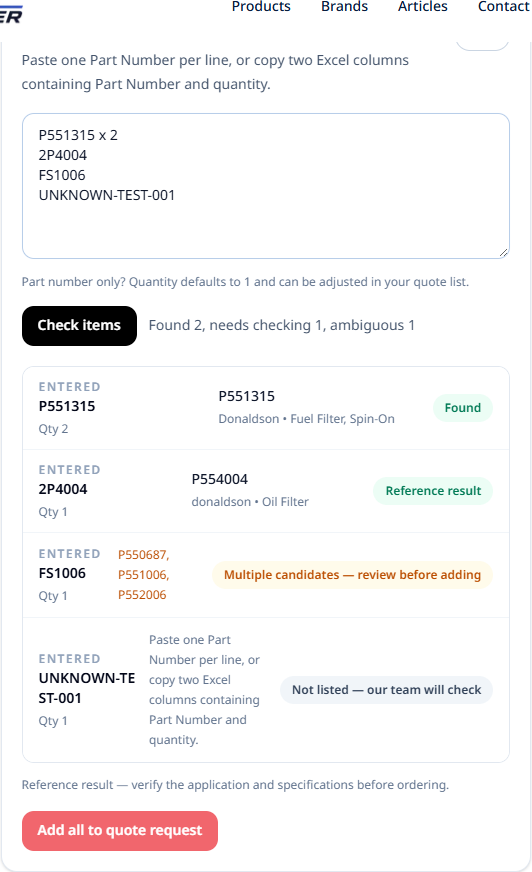
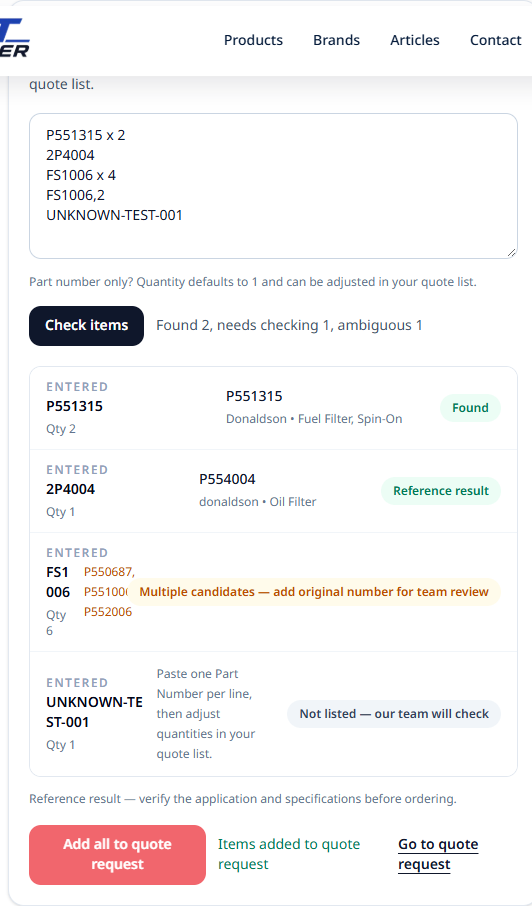
Keep ambiguous RFQ numbers for review and simplify examples

diff --git a/hooks/useMultiPartSearch.ts b/hooks/useMultiPartSearch.ts
@@ -78,7 +78,7 @@ export function useMultiPartSearch({ locale, initiallyExpanded = false, parseInp
   const ambiguousCount = results.filter(
     (result) => result.status === "ambiguous",
   ).length;
-  const canAddResults = !loading && !added && results.length > 0 && ambiguousCount === 0;
+  const canAddResults = !loading && !added && results.length > 0;
 
   const text = isThai
     ? {
@@ -86,9 +86,9 @@ export function useMultiPartSearch({ locale, initiallyExpanded = false, parseInp
         trigger: "ค้นหาหลายรายการ",
         title: "ค้นหาหลายรายการ",
         description:
-          "วาง Part Number ทีละบรรทัด หรือคัดลอก 2 คอลัมน์ Part Number และจำนวนจาก Excel",
+          "วาง Part Number บรรทัดละเบอร์ แล้วปรับจำนวนในรายการขอราคาได้",
         placeholder:
-          "ตัวอย่าง:\nP553000\t2\nAF25555\t1\nCR522 x 3\nUNKNOWN-TEST-001",
+          "ตัวอย่าง:\nP553000\nAF25555\nCR522\nUNKNOWN-TEST-001",
         check: "ตรวจสอบรายการ",
         checking: "กำลังตรวจสอบ...",
         reset: "ล้างรายการ",
@@ -97,13 +97,13 @@ export function useMultiPartSearch({ locale, initiallyExpanded = false, parseInp
         found: "พบสินค้า",
         referenceFound: "พบ Cross Reference",
         missing: "ไม่พบในรายการเว็บไซต์ — ให้ทีมช่วยตรวจสอบ",
-        ambiguous: "พบหลายรายการที่เป็นไปได้ กรุณาตรวจสอบก่อนเพิ่ม",
+        ambiguous: "พบหลายเบอร์เทียบ — จะเพิ่มเบอร์เดิมให้ทีมตรวจสอบ",
         addAll: "เพิ่มทั้งหมดไปยังรายการขอราคา",
         added: "เพิ่มรายการไปยังใบขอราคาแล้ว",
         quoteCta: "ไปที่รายการขอราคา",
         summary: (found: number, missing: number, ambiguous: number) =>
           `พบ ${found} รายการ, ให้ทีมตรวจสอบ ${missing} รายการ${
-            ambiguous ? `, ข้อมูลซ้ำ ${ambiguous} รายการ` : ""
+            ambiguous ? `, หลายเบอร์เทียบ ${ambiguous} รายการ` : ""
           }`,
         failed: "ตรวจสอบรายการไม่สำเร็จ กรุณาลองอีกครั้ง",
         quantity: (qty: number) => `จำนวน ${qty}`,
@@ -115,9 +115,9 @@ export function useMultiPartSearch({ locale, initiallyExpanded = false, parseInp
         trigger: "Search multiple items",
         title: "Search multiple items",
         description:
-          "Paste one Part Number per line, or copy two Excel columns containing Part Number and quantity.",
+          "Paste one Part Number per line, then adjust quantities in your quote list.",
         placeholder:
-          "Example:\nP553000\t2\nAF25555\t1\nCR522 x 3\nUNKNOWN-TEST-001",
+          "Example:\nP553000\nAF25555\nCR522\nUNKNOWN-TEST-001",
         check: "Check items",
         checking: "Checking...",
         reset: "Clear",
@@ -126,7 +126,7 @@ export function useMultiPartSearch({ locale, initiallyExpanded = false, parseInp
         found: "Found",
         referenceFound: "Reference result",
         missing: "Not listed — our team will check",
-        ambiguous: "Multiple candidates — review before adding",
+        ambiguous: "Multiple candidates — add original number for team review",
         addAll: "Add all to quote request",
         added: "Items added to quote request",
         quoteCta: "Go to quote request",
@@ -218,7 +218,7 @@ export function useMultiPartSearch({ locale, initiallyExpanded = false, parseInp
         continue;
       }
 
-      if (result.status === "missing") {
+      if (result.status === "missing" || result.status === "ambiguous") {
         addItem({
           productId: `manual:${result.normalizedPartNo.toLowerCase()}`,
           partNo: result.originalPartNo,

diff --git a/scripts/verify-rfq-bulk-entry.ts b/scripts/verify-rfq-bulk-entry.ts
@@ -28,4 +28,6 @@ assert.equal(parseBulkPartText("W 962/14")[0].originalPartNo, "W 962/14");
 assert.equal(parseBulkPartText("P551315\nP551315 x 2")[0].qty, 3);
 assert.equal(parseBulkPartText("P551315 x 2000")[0].qty, 999);
 assert.deepEqual(parseBulkPartText("\n  \n"), []);
+assert.equal(parseBulkPartText("FS1006 x 4\nFS1006,2")[0].qty, 6);
 console.log("RFQ bulk entry: catalog parity, reference context, ambiguity, unknown, deployed exclusion, quantity formats and duplicates passed.");
+

diff --git a/docs/qa/rfq-line-contact-20261116/README.md b/docs/qa/rfq-line-contact-20261116/README.md
@@ -4,7 +4,7 @@ Base: `1c84a275e3b4b6dfa4e4e0f26ff3b05e5d360cd9` (main, PR #188). Isolated branc
 
 ## Resulting behavior
 
-RFQ bulk entry now uses the existing `/api/search/multi-part` read-only lookup and review UI. Existing search logic in `lib/search/search.ts` resolves `2P4004` to the stored `P554004` cross-reference. Exact products and reference suggestions have different labels. Reference searches retain the entered customer number in existing RFQ metadata, quote storage and copied LINE text. This does not certify compatibility. Multiple candidates (e.g. `FS1006`) are displayed and block adding until the customer edits the list; unknown numbers remain explicit manual requests. No catalog mappings were added.
+RFQ bulk entry now uses the existing `/api/search/multi-part` read-only lookup and review UI. Existing search logic in `lib/search/search.ts` resolves `2P4004` to the stored `P554004` cross-reference. Exact products and reference suggestions have different labels. Reference searches retain the entered customer number in existing RFQ metadata, quote storage and copied LINE text. This does not certify compatibility. Multiple candidates (e.g. `FS1006`) are displayed and remain addable as the original number for team review, without choosing a candidate; unknown numbers remain explicit manual requests. No catalog mappings were added.
 
 Legacy RFQ bulk quantity syntax remains supported: `part x 2`, `partx2`, comma, tab, `part - 2`, and trailing quantities. Known spaced catalog numbers are preserved. Rows containing only part numbers default to 1; quantities remain directly editable later. Repeated lines merge quantities; repeated clicks on the same added results are disabled. A deliberate new lookup can add another batch and retains reference context.
 
@@ -69,3 +69,7 @@ Selected rendered evidence:
 No merge, auto-merge, manual deployment, production write, real RFQ submission, email or LINE message was performed. Native mobile LINE launch/paste/send and OS mail-client association remain unverified. The QR continues to identify the OA; a QR containing prefilled RFQ text was not implemented. Production runtime/notification routing was not exercised. Existing repository lint/reference-script failures remain outside this batch.
 
 Preview status will be reported against this branch SHA and project `mrt-supplier-web-clean-lfcm`. A canceled/ignored build is not successful Preview QA; no configuration will be changed to force a Preview. Boss retains separate merge/deploy approval.
+
+## Review corrections
+
+Examples now contain only one Part Number per line in TH/EN; quantities are adjusted later, while manually entered legacy quantity syntax remains supported. Ambiguous rows no longer block the batch. For the mixed input `P551315 x 2`, `2P4004`, `FS1006 x 4`, `FS1006,2`, `UNKNOWN-TEST-001`, Add all keeps all four rows: exact quantity 2, reference quantity 1 with original search number, manual `FS1006` quantity 6, and unknown quantity 1. None of the three FS1006 candidate product numbers is substituted. Responsive TH/EN checks at all four widths passed after this correction; the recorded browser snippet and mixed-results screenshots are updated. Ambiguous-only default quantity 1, repeated manual additions and reload persistence also pass at all eight combinations. [English part-only examples](examples-en-1440.png), [Thai part-only examples](examples-th-390.png). Supplementary reproduction: `corrections-check.txt`. Final build, TypeScript and focused lint passed after these corrections.
